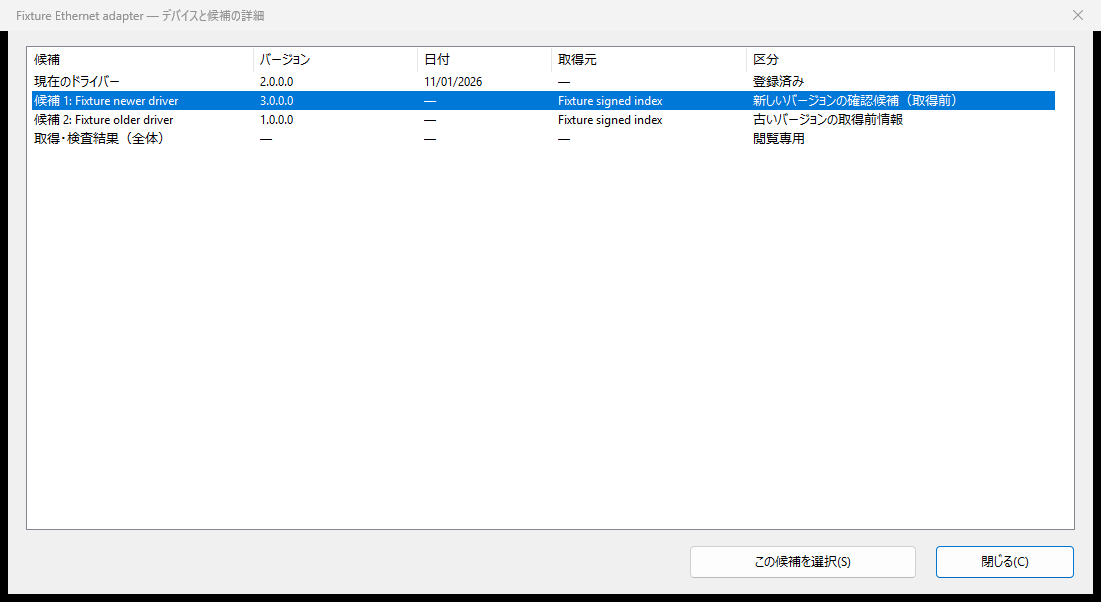
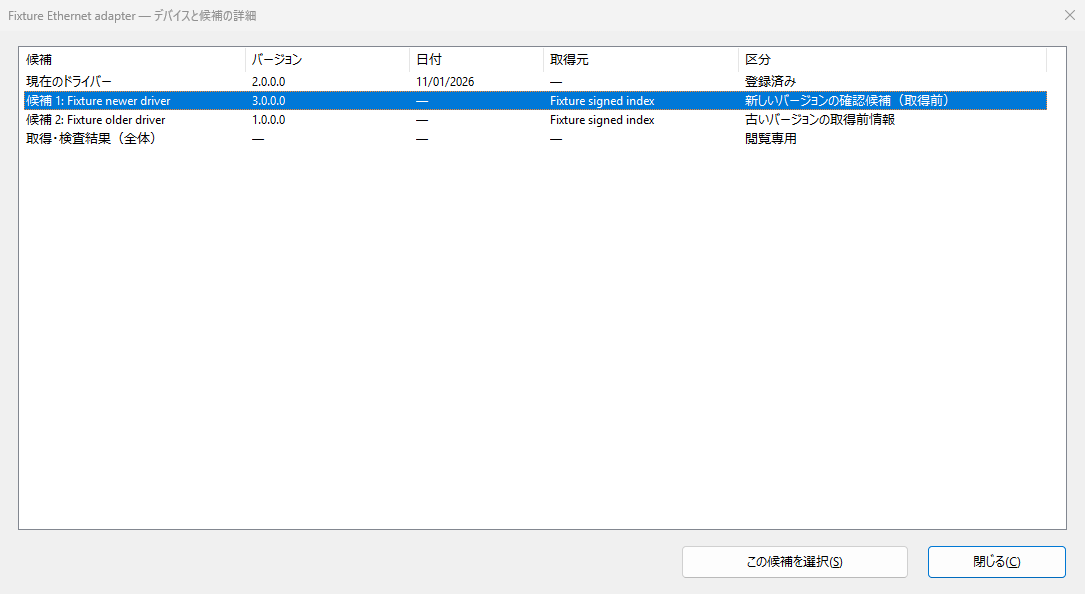
Capture README windows without invisible resize borders

Changed region(s): [[0.0, 0.0, 1.0, 1.0]]

diff --git a/tests/ui/metadata_ui_tests.cpp b/tests/ui/metadata_ui_tests.cpp
@@ -2,7 +2,7 @@
 /**
  * @file metadata_ui_tests.cpp
  * @brief 製品と同じWin32画面の情報検索専用内部試験。
- * @version 01.53.03
+ * @version 01.53.05
  * @date 2026/11/11
  * @author Shunji Ogawa
  * @copyright Copyright (c) 2026 EnterSystem CO.,LTD.
@@ -96,6 +96,8 @@
  * Ver.01.53.01 Shunji Ogawa  2026/11/11  復元失敗の選択保持とnative tooltip退場の試験観測を整合。
  * Ver.01.53.02 Shunji Ogawa  2026/11/11  README画像専用入口を新版候補の通常選択状態へ限定。
  * Ver.01.53.03 Shunji Ogawa  2026/11/11  README用検索結果を実filter操作で更新して撮影。
+ * Ver.01.53.04 Shunji Ogawa  2026/11/11  README撮影だけをDWMの可視枠でPNGへ保存。
+ * Ver.01.53.05 Shunji Ogawa  2026/11/11  README撮影の残る外周をclient左右下端に合わせる。
  * </pre>
  *
  * @note 明示optionでのみ起動し、実device・network・取得・復旧・導入へ接続しない。
@@ -124,6 +126,7 @@
 #include "test_framework.h"
 #include "signed_index_candidate_binding_tests.h"
 
+#include <dwmapi.h>
 #include <wincodec.h>
 #include <wrl/client.h>
 
@@ -5919,9 +5922,11 @@ struct CaptureSurface {
  * @brief 合成WindowをPNGへ保存し、実desktopや端末情報をcaptureしない。
  * @param[in] window 本試験で作成したWindow。
  * @param[in] name Build配下の固定basename。
+ * @param[in] visibleFrameOnly trueならREADME用に可視captionとclient左右下端を保存します。
  * @return PrintWindowとPNG保存の全段階が成功した場合true。
  */
-bool captureWindow( const HWND window, const std::wstring_view name)
+bool captureWindow( const HWND window, const std::wstring_view name,
+				   const bool visibleFrameOnly = false)
 {
 	CaptureObservation observation( window, name) ;	// 初観測ではguardやgeometryを変更しません。
 	RECT			   bounds{} ;					// 合成Window全体の有限pixel範囲。
@@ -5934,7 +5939,46 @@ bool captureWindow( const HWND window, const std::wstring_view name)
 
 	const int width	 = bounds.right - bounds.left ;	// Pixel幅。
 	const int height = bounds.bottom - bounds.top ;	// Pixel高さ。
-	const HDC screen = GetDC( window) ;				// Pixel形式取得だけの非所有Window DC。
+	WICRect	  encoded{0, 0, width, height} ;		// 既定は元bitmap全体の寸法を維持します。
+	// README撮影だけは不可視resize枠を含まない同じ物理pixel範囲を選びます。
+	if( visibleFrameOnly) {
+		RECT visible{} ;	// 当該fixture WindowのDWM可視枠です。
+		RECT client{} ;		// 左右下端の未描画外周を除く当該Windowのclient範囲です。
+		// DPI座標の不一致や取得失敗を旧範囲での撮影成功へ読み替えません。
+		if( FAILED( DwmGetWindowAttribute( window, DWMWA_EXTENDED_FRAME_BOUNDS, &visible,
+										sizeof( visible))) ||
+		   GetClientRect( window, &client) == FALSE) {
+			return false ;
+		}
+
+		POINT clientStart{client.left, client.top} ;	// 同じscreen座標へ変換するclient左上です。
+		POINT clientEnd{client.right, client.bottom} ;	// 右下は矩形外側の境界です。
+		// Captionの上端を保ったままclientの左右下端を同じ物理pixelへ結びます。
+		if( ClientToScreen( window, &clientStart) == FALSE ||
+		   ClientToScreen( window, &clientEnd) == FALSE) {
+			return false ;
+		}
+
+		visible.left   = std::max( visible.left, clientStart.x) ;
+		visible.right  = std::min( visible.right, clientEnd.x) ;
+		visible.bottom = std::min( visible.bottom, clientEnd.y) ;
+		// 可視領域が元bitmapに収まる場合だけ保存し、拡大や補間は行いません。
+		if( visible.left < bounds.left || visible.top < bounds.top || visible.right > bounds.right ||
+		   visible.bottom > bounds.bottom || visible.right <= visible.left ||
+		   visible.bottom <= visible.top) {
+			return false ;
+		}
+
+		encoded = {static_cast<INT>( visible.left - bounds.left),
+				   static_cast<INT>( visible.top - bounds.top),
+				   static_cast<INT>( visible.right - visible.left),
+				   static_cast<INT>( visible.bottom - visible.top)} ;
+		std::cout << "CAPTURE_VISIBLE_FRAME source=" << width << ',' << height
+				  << " region=" << encoded.X << ',' << encoded.Y << ',' << encoded.Width << ','
+				  << encoded.Height << " dpi=" << GetDpiForWindow( window) << '\n' ;
+	}
+
+	const HDC screen = GetDC( window) ;	// Pixel形式取得だけの非所有Window DC。
 	// DC取得失敗ではbitmapを作らない。
 	if( screen == nullptr) {
 		return false ;
@@ -6014,14 +6058,15 @@ bool captureWindow( const HWND window, const std::wstring_view name)
 	   FAILED( factory->CreateEncoder( GUID_ContainerFormatPng, nullptr, &encoder)) ||
 	   FAILED( encoder->Initialize( stream.Get(), WICBitmapEncoderNoCache)) ||
 	   FAILED( encoder->CreateNewFrame( &frame, nullptr)) || FAILED( frame->Initialize( nullptr)) ||
-	   FAILED( frame->SetSize( static_cast<UINT>( width), static_cast<UINT>( height)))) {
+	   FAILED(
+		   frame->SetSize( static_cast<UINT>( encoded.Width), static_cast<UINT>( encoded.Height)))) {
 		return false ;
 	}
 
 	WICPixelFormatGUID format = GUID_WICPixelFormat32bppBGR ;	// Alphaを持たないWindow capture。
 	return SUCCEEDED( frame->SetPixelFormat( &format)) &&
-		   SUCCEEDED( frame->WriteSource( bitmap.Get(), nullptr)) && SUCCEEDED( frame->Commit()) &&
-		   SUCCEEDED( encoder->Commit()) ;
+		   SUCCEEDED( frame->WriteSource( bitmap.Get(), visibleFrameOnly ? &encoded : nullptr)) &&
+		   SUCCEEDED( frame->Commit()) && SUCCEEDED( encoder->Commit()) ;
 }
 
 /** @brief 原描画を上から順に保持する24bppBGRの有限pixel列です。 */
@@ -7586,7 +7631,8 @@ void CALLBACK dialogTimer( HWND window, UINT message, UINT_PTR timer, DWORD tick
 								 RDW_INVALIDATE | RDW_ALLCHILDREN | RDW_UPDATENOW | RDW_FRAME) ;
 				}
 
-				DRIVERCRATE_EXPECT( *state.context, captureWindow( popup, state.captureName)) ;
+				DRIVERCRATE_EXPECT( *state.context,
+								   captureWindow( popup, state.captureName, historyImagesOnly)) ;
 				// 追加画像は同dialog所有の実balloon一枚だけに限定します。
 				if( candidates != nullptr && historyImagesOnly && !state.detailNarrow) {
 					const auto currentText =
@@ -9455,7 +9501,7 @@ void runHistoryUiScenarios( TestContext &context, const bool keysOnly = false)
 		Access::expandClassPreview( window) ;
 		DRIVERCRATE_EXPECT( context, IsWindowEnabled( GetDlgItem( handle, IDC_INSTALL)) != FALSE) ;
 #if !defined( _DEBUG)
-		DRIVERCRATE_EXPECT( context, captureWindow( handle, L"device-list-ready")) ;
+		DRIVERCRATE_EXPECT( context, captureWindow( handle, L"device-list-ready", true)) ;
 #endif
 		DialogState sample{.context = &context,
 						   .owner	= handle,
